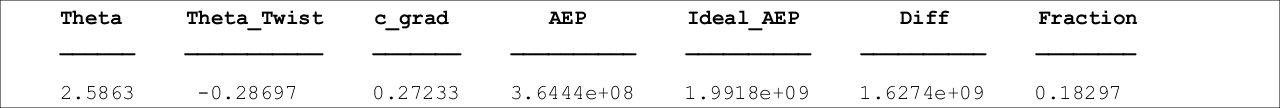
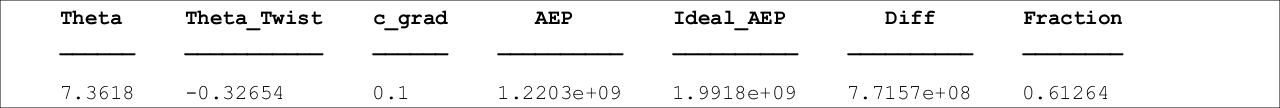
Updated boundaries to be correct

diff --git a/main.m b/main.m
@@ -46,7 +46,7 @@ globaldata.Rmax=Rmax;
 globaldata.B=3;
 tic;
 
-globaldata.maxiters=5;
+globaldata.maxiters=100;
 progressbar('Calculating Power', 'Solving Rotor', 'Finding Local Induced Flow', 'Optimisation');
 %progressbar([],[],[], (1/maxiters));
 opts = optimset('fminsearch');
@@ -55,7 +55,7 @@ opts.TolX = 0.0001; %Tolerance on the variation in the parameters
 opts.TolFun = 0.001; %Tolerance on the error
 opts.OutputFcn = @(x,optimValues,state)optMonitor(x,optimValues,state,globaldata); %Tolerance on the error
 opts.MaxIter = globaldata.maxiters-1; %Max number of iterations
-[x, diff, exitflag] = fminsearchbnd(@(x)aepCost(x,globaldata), [deg2rad(2.5) deg2rad(-1) 0.3], [deg2rad(2) deg2rad(-2) 0], [deg2rad(20) deg2rad(-0.1) 0.9], opts);
+[x, diff, exitflag] = fminsearchbnd(@(x)aepCost(x,globaldata), [deg2rad(2.5) deg2rad(-1) 0], [deg2rad(2) deg2rad(-2) -0.1], [deg2rad(20) deg2rad(-0.1) 0.1], opts);
 xdeg=[rad2deg(x(1)),rad2deg(x(2)),x(3)];
 if exitflag==1
     disp('Optimiser SOLVED.');
